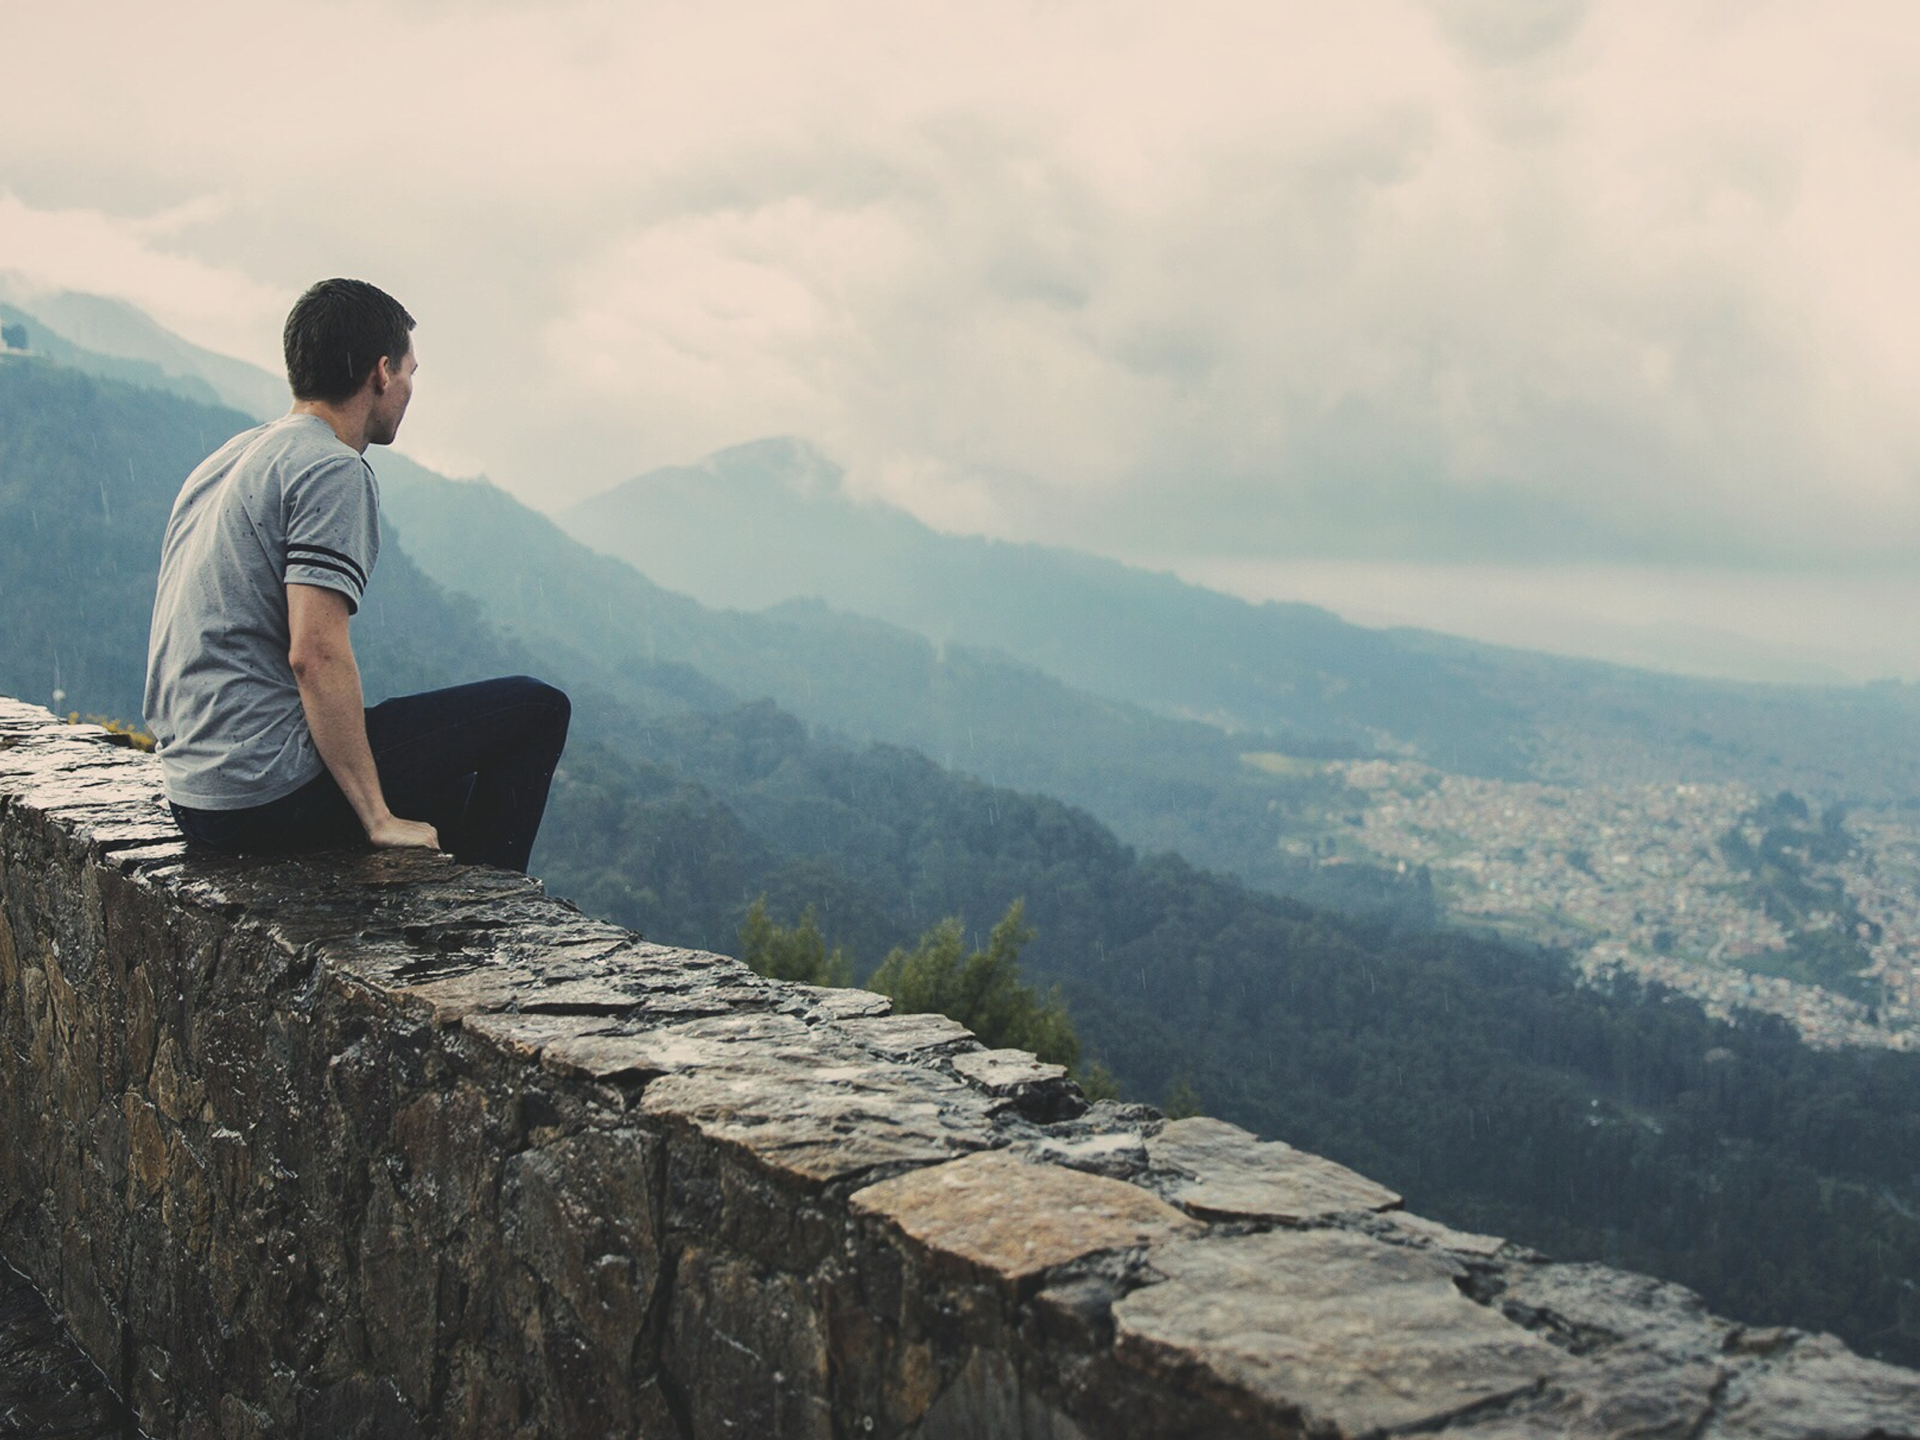
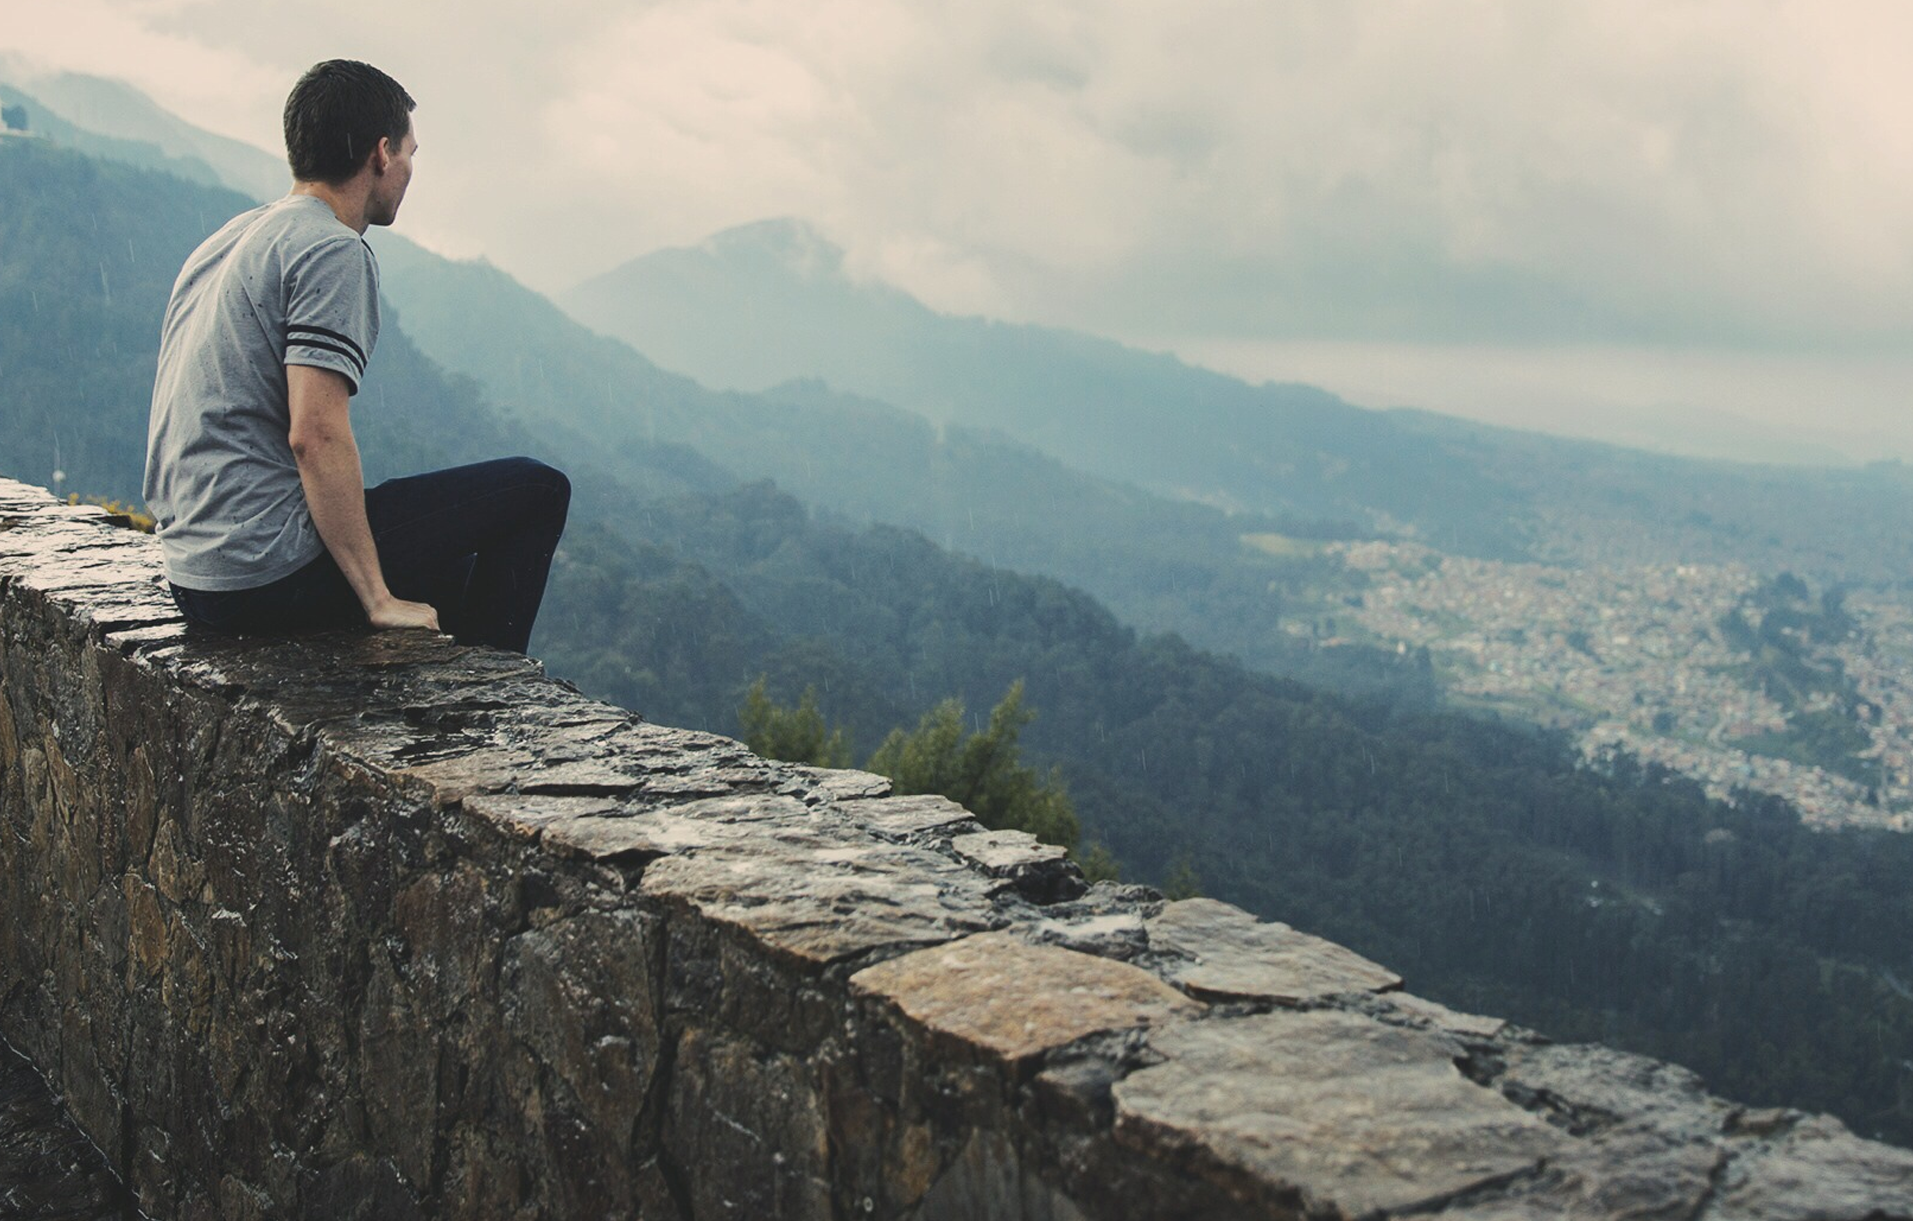
Moving forward.

diff --git a/index.html b/index.html
@@ -70,61 +70,15 @@
             <div class="inner-bg">
                 <div class="container">
                     <div class="row">
-                        <div class="col-sm-12 text wow fadeInDown">
-                            <h1>60,000 Vegan-friendly businesses and counting.</h1>
-                            <div class="description">
-                            	<p>
-	                            	Sproutli connects people with businesses providing kinder alternatives.
-                                <br>
-                                <br>
-                            	</p>
-                            </div>
+                        <div class="col-sm-12 text wow fadeInDown main-heading">
+                          <h1>Find kindness anywhere.</h1>
                         </div>
                     </div>
-                    </br>
-                    </br>
-                    </br>
-                    </br>
-                    <div class="row">
-                      <h1>Watch the video</h1>
-                    </div>
-                    </br>
-                    </br>
-                    <div class="row">
-                        <div class="col-sm-4 list wow fadeInUp">
-                          <div class="list-box">
-                            <div class="list-box-icon">
-                              <span aria-hidden="true" class="typcn typcn-world"></span>
-                            </div>
-                            <h3>Global</h3>
-                            <div class="list-box-description">
-                              More than 60,000 vegan-friendly businesses around the world already use Sproutli.
-                            </div>
-                          </div>
-                        </div>
-                        <div class="col-sm-4 list wow fadeInUp">
-                          <div class="list-box">
-  		                    	<div class="list-box-icon">
-  		                    		<span aria-hidden="true" class="typcn typcn-thumbs-up"></span>
-  		                    	</div>
-  		                    	<h3>Free</h3>
-  		                    	<div class="list-box-description">
-  		                    		You won't have to pay a cent to use Sproutli when looking for a Vegan-friendly business nearby.
-  		                    	</div>
-  		                    </div>
-                        </div>
-                        <div class="col-sm-4 list wow fadeInUp">
-                        	<div class="list-box">
-		                    	<div class="list-box-icon">
-		                    		<span aria-hidden="true" class="typcn typcn-device-tablet"></span>
-		                    	</div>
-		                    	<h3>Works Everywhere</h3>
-		                    	<div class="list-box-description">
-		                    		The Sproutli app is available on iOS, Android so wherever you are, whatever you're doing, you can take us with you. 
-		                    	</div>
-		                    </div>
-                        </div>
-                    </div>
+                    <!-- <div class="row"> -->
+                    <!--   <div id="watch-the-video" class="col-sm-8 col-sm-offset-2"> -->
+                    <!--     <h2><a href="#">> Watch the video</a></h2> -->
+                    <!--   </div> -->
+                    <!-- </div> -->
                     <div class="row">
 	                    <div class="col-sm-12 top-big-link wow fadeInUp">
                         <!-- Button trigger modal -->

diff --git a/assets/css/style.css b/assets/css/style.css
@@ -264,6 +264,16 @@ ul.navbar-nav {
 
 .inner-bg {
     padding: 70px 0 130px 0;
+    text-shadow: 1px 1px 2px #000 !important;
+}
+
+.inner-bg h1 {
+  font-weight: 300;
+  font-size: 4em;
+}
+
+.main-heading {
+  padding-bottom: 6em;
 }
 
 .top-content .text {
@@ -569,8 +579,18 @@ ul.navbar-nav {
 
 /***** Call to action *****/
 
-.call-to-action-container .section-bottom-button {
+.call-to-action-container {
 	padding-top: 30px;
+	padding-bottom: 30px;
+  background: rgba(56, 179, 152, 1);
+  background: -moz-linear-gradient(13deg, rgba(56, 179, 152, 1)14%, rgba(68, 143, 180, 1) 92%);
+  background: -webkit-linear-gradient(13deg, rgba(56, 179, 152, 1)14%, rgba(68, 143, 180, 1) 92%);
+  background: -o-linear-gradient(13deg, rgba(56, 179, 152, 1)14%, rgba(68, 143, 180, 1) 92%);
+  background: -ms-linear-gradient(13deg, rgba(56, 179, 152, 1)14%, rgba(68, 143, 180, 1) 92%);
+  background: linear-gradient(13deg, rgba(56, 179, 152, 1)14%, rgba(68, 143, 180, 1) 92%);
+  filter: progid:DXImageTransform.Microsoft.gradient( startColorstr='#182a73', endColorstr='#20a7ac',GradientType=1 );
+  border-radius: 0;
+  margin: 0em;
 }
 
 
@@ -732,4 +752,17 @@ footer {
 
 .app-features-box h3 {
 	margin-top: 15px;
+}
+
+/******** Watch the video ******/
+#watch-the-video {
+  height: 400px;
+  background-color: rgba(56, 179, 152, 0.2);
+}
+
+
+#watch-the-video h2, a {
+  padding-top: 170px;
+  color: #fff !important;
+  text-decoration: underline;
 }

diff --git a/assets/js/scripts.js b/assets/js/scripts.js
@@ -25,7 +25,7 @@ jQuery(document).ready(function() {
     /*
         Background slideshow
     */
-    $('.top-content').backstretch("assets/img/backgrounds/2@2x.png");
+    $('.top-content').backstretch("assets/img/backgrounds/2@2x.png", {centeredY: false, fade: 200});
 
     $('#top-navbar-1').on('shown.bs.collapse', function(){
     	$('.top-content').backstretch("resize");
